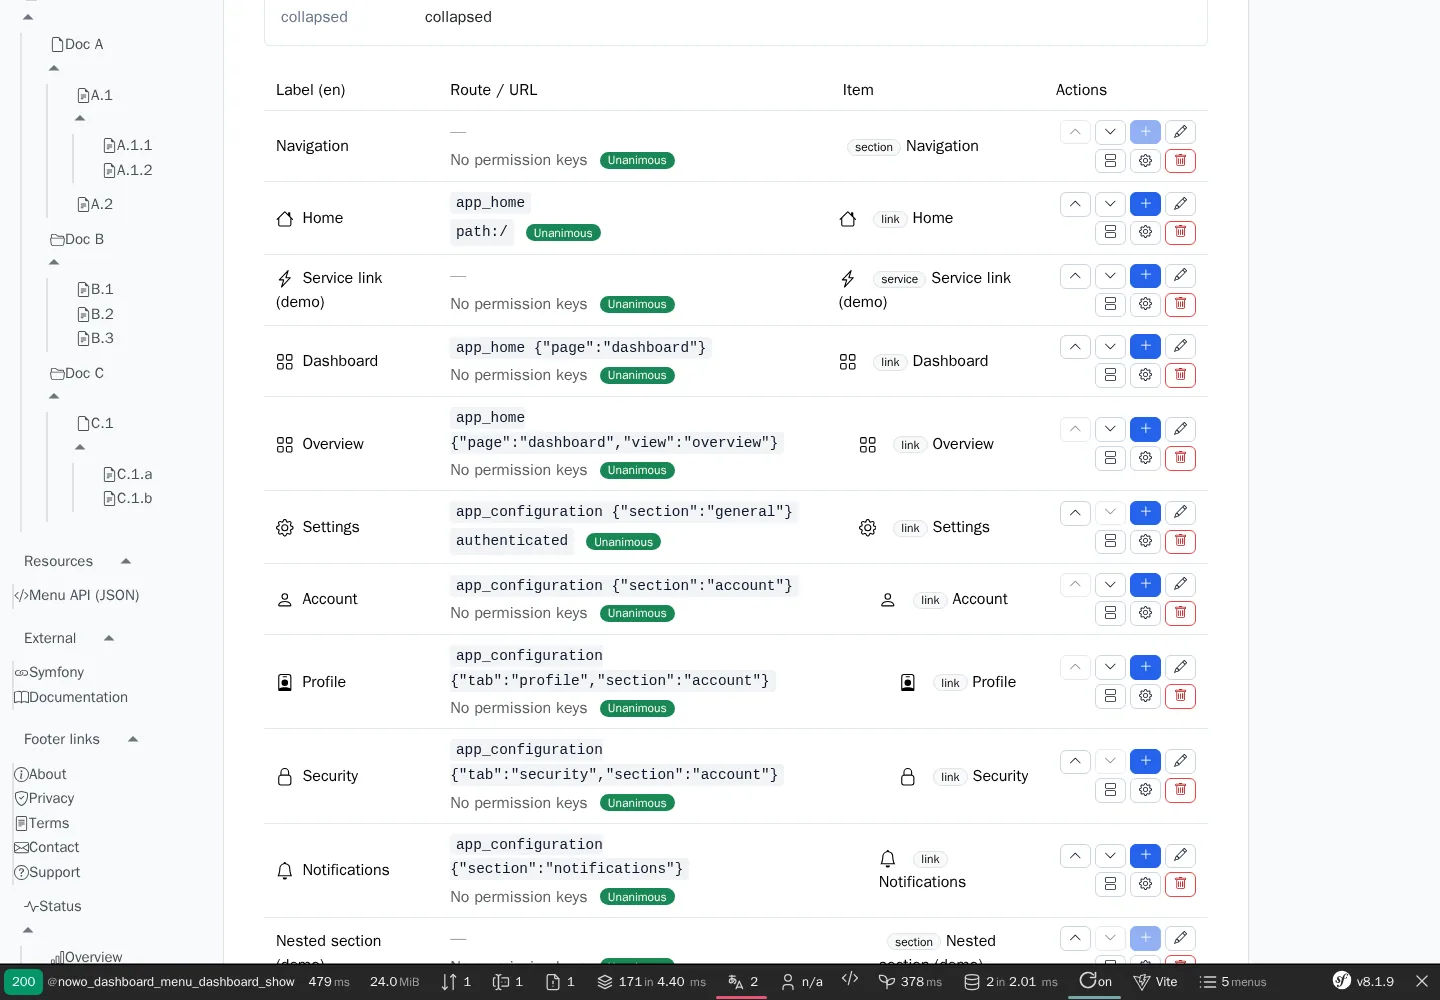
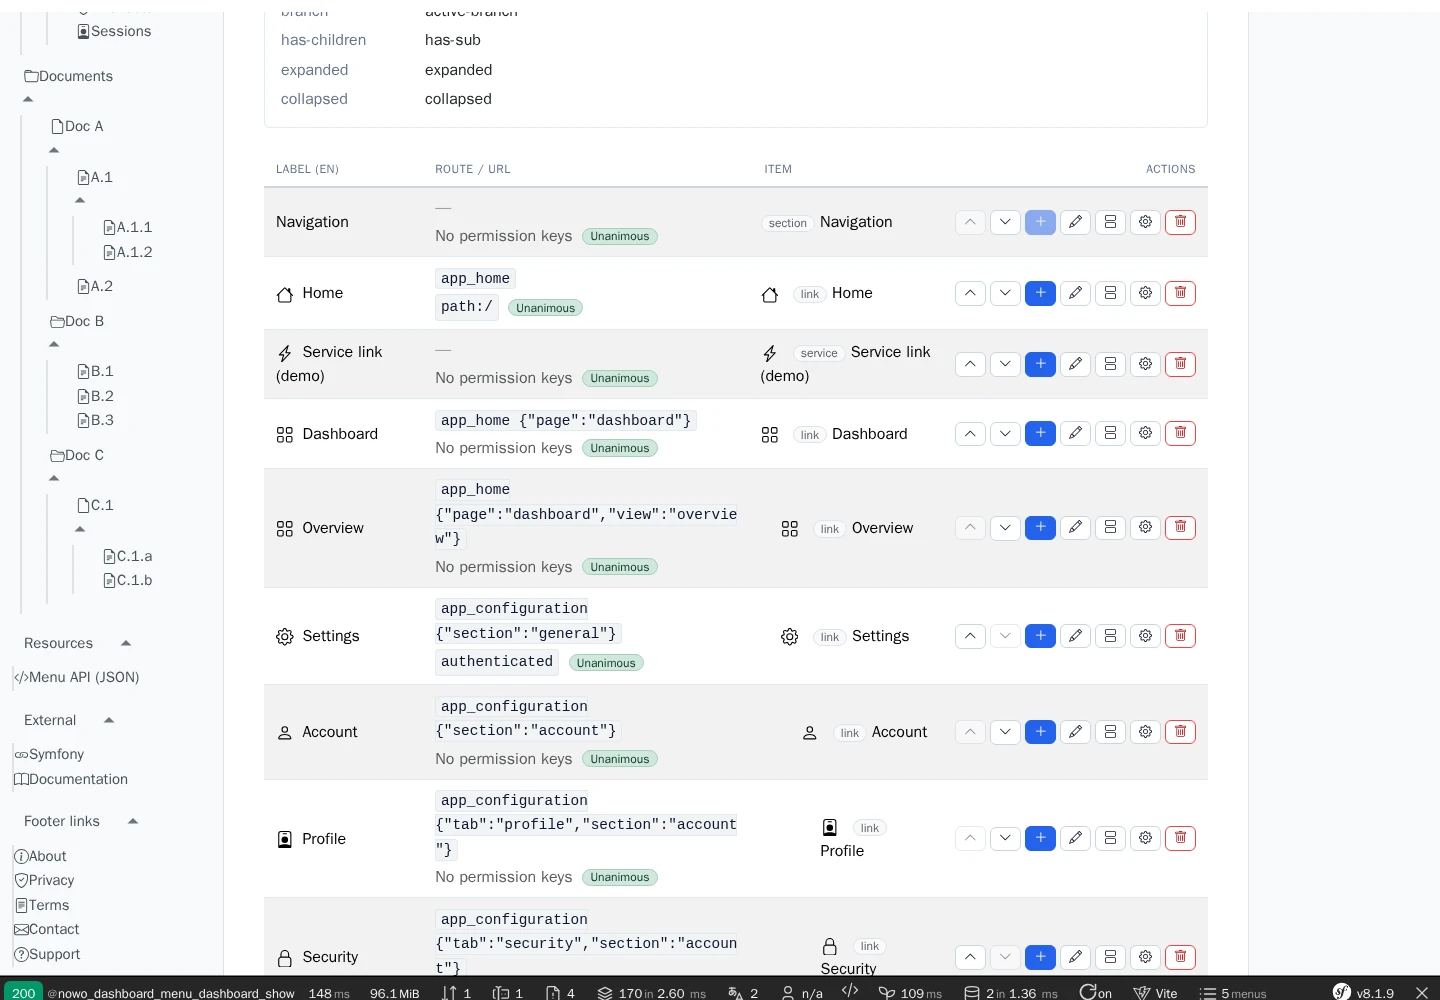
docs: changelog, upgrading and re-captured screenshots for UiKit 2.2 (REQ-DEMO-013)

diff --git a/docs/CHANGELOG.md b/docs/CHANGELOG.md
@@ -100,6 +100,21 @@ and this project adheres to [Semantic Versioning](https://semver.org/spec/v2.0.0
 
 ## [Unreleased]
 
+### Changed
+
+- Requires `nowo-tech/ui-kit-bundle` **^2.2** (default-theme polish: table header hierarchy, striped rows, row actions
+  on one line, search filter as a grid row, subtle badges, muted help text). See [UPGRADING](UPGRADING.md#unreleased).
+- Full item page, configuration section (Live component): UiKit 2.2 body-only form page (`FormPage::$form` null)
+  instead of a field-less "shell" `FormView` wrapping the component in embedded mode. The component renders its own
+  form (Live `save` action, then redirect to the menu, as in the dialog) and a Cancel link (new LiveProp
+  `cancelHref`). `DashboardPages::itemFormPage()` accepts a null form.
+- Demo: the host layout prints the UiKit runtimes through the UiKit `scripts` partial.
+
+### Deprecated
+
+- `ItemFormLiveComponent::$embedded` is no longer used by the bundle pages (kept for host templates that embed the
+  component inside their own form).
+
 ## [2.7.0] - 2026-10-18
 
 Dashboard pages on the UiKit 2.1 standard page contract (REQ-UI-003): list, show and form scaffolds, UiKit dialogs with no-JS fallbacks (Live item form kept), confirm dialogs; deprecated `dashboard.*` / `dashboard.ui.*` keys mapped or bridged into `nowo_ui_kit.theme.bundles`. See [UPGRADING](UPGRADING.md#to-270).

diff --git a/docs/UPGRADING.md b/docs/UPGRADING.md
@@ -107,6 +107,16 @@
 
 ## Unreleased
 
+Requires UiKit **^2.2** (`composer require nowo-tech/ui-kit-bundle:^2.2`). No configuration change. What hosts may
+notice:
+
+- **Full item page, configuration section** (Live component): the page has no scaffold `<form>` any more — the
+  component renders its own form and saves through its Live `save` action (same as the dialog), then redirects to the
+  menu. Overrides of `dashboard/item_form.html.twig` that relied on `form` (the shell `FormView`) in live mode get
+  `form: null`; pass `cancelHref` instead of `embedded: true` to the component.
+- UiKit 2.2 default theme: small uppercase table headers, striped rows, row actions on one line, subtle badges, muted
+  help text (UiKit UPGRADING "Template contract (2.2)").
+
 ## To 2.7.0
 
 From **2.6.0**:
